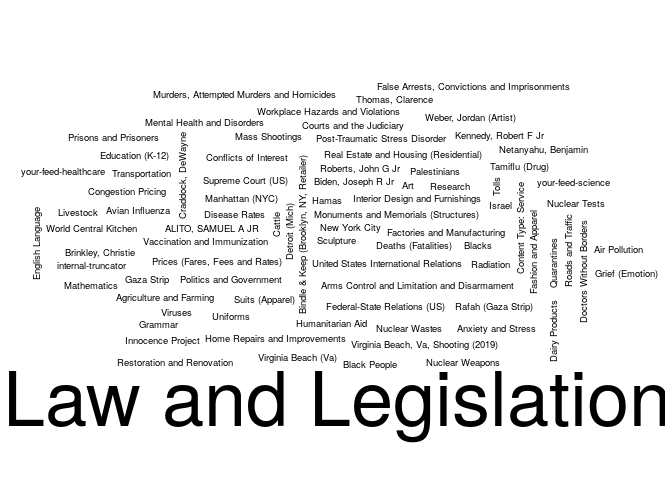
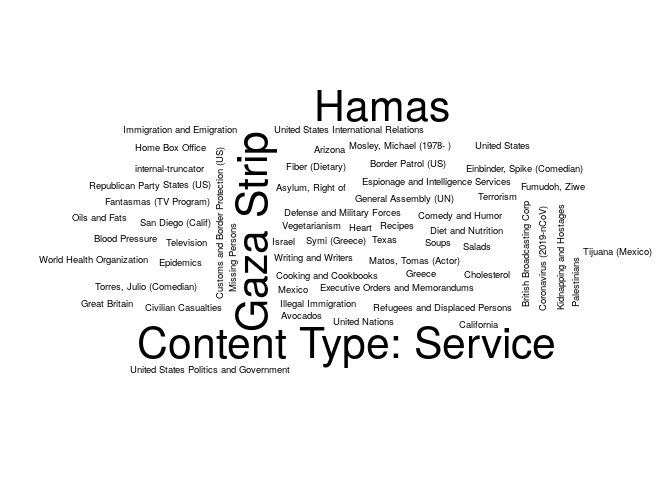
Updating the NYT report

Changed region(s): [[0.0, 0.1562, 1.0, 0.9375]]

diff --git a/03-nytimes/README.md b/03-nytimes/README.md
@@ -5,7 +5,7 @@ The following is an example of how to use the [NYTimes
 API](https://developer.nytimes.com/) to get a list of articles related
 to a particular term. Here we are searching articles that include the
 term `"health"`, and that were published up to seven days ago since
-2024-06-03.
+2024-06-10.
 
 ``` r
 # Preparing a function to use the GET method with the NYTimes API
@@ -83,25 +83,25 @@ colnames(tab) <- c("Keyword", "# Articles")
 knitr::kable(tab, row.names = FALSE)
 ```
 
-| Keyword                                     | \# Articles |
-|:--------------------------------------------|------------:|
-| Colleges and Universities                   |          10 |
-| Israel-Gaza War (2023- )                    |          10 |
-| Law and Legislation                         |          10 |
-| Medicine and Health                         |          10 |
-| United States Politics and Government       |          10 |
-| Agriculture and Farming                     |           5 |
-| Air Pollution                               |           5 |
-| ALITO, SAMUEL A JR                          |           5 |
-| Anxiety and Stress                          |           5 |
-| Arms Control and Limitation and Disarmament |           5 |
-| Art                                         |           5 |
-| Avian Influenza                             |           5 |
-| Biden, Joseph R Jr                          |           5 |
-| Bindle & Keep (Brooklyn, NY, Retailer)      |           5 |
-| Black People                                |           5 |
-| Blacks                                      |           5 |
-| Brinkley, Christie                          |           5 |
-| Cattle                                      |           5 |
-| Conflicts of Interest                       |           5 |
-| Congestion Pricing                          |           5 |
+| Keyword                            | \# Articles |
+|:-----------------------------------|------------:|
+| Israel-Gaza War (2023- )           |          15 |
+| Content Type: Service              |          10 |
+| Gaza Strip                         |          10 |
+| Hamas                              |          10 |
+| Arizona                            |           5 |
+| Asylum, Right of                   |           5 |
+| Avocados                           |           5 |
+| Blood Pressure                     |           5 |
+| Border Patrol (US)                 |           5 |
+| British Broadcasting Corp          |           5 |
+| California                         |           5 |
+| Cholesterol                        |           5 |
+| Civilian Casualties                |           5 |
+| Comedy and Humor                   |           5 |
+| Cooking and Cookbooks              |           5 |
+| Coronavirus (2019-nCoV)            |           5 |
+| Customs and Border Protection (US) |           5 |
+| Defense and Military Forces        |           5 |
+| Diet and Nutrition                 |           5 |
+| Einbinder, Spike (Comedian)        |           5 |
